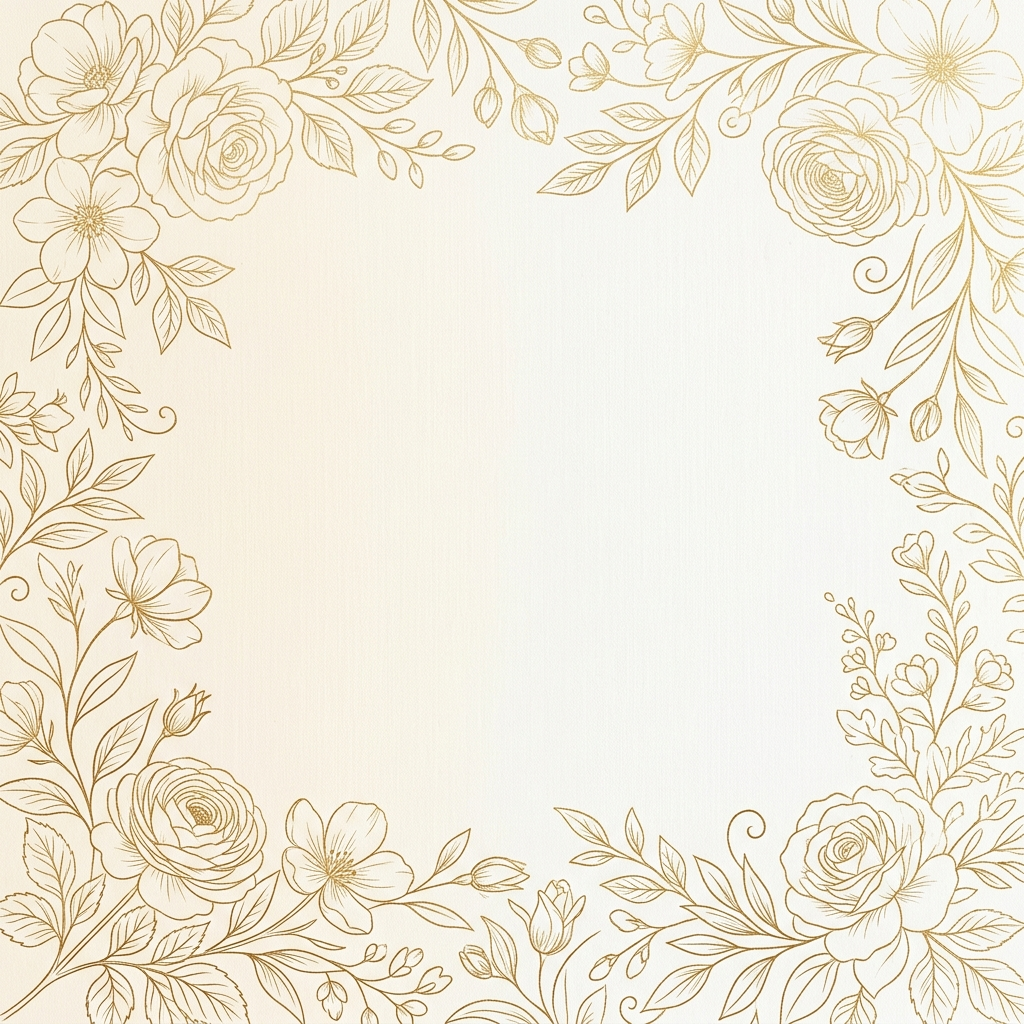
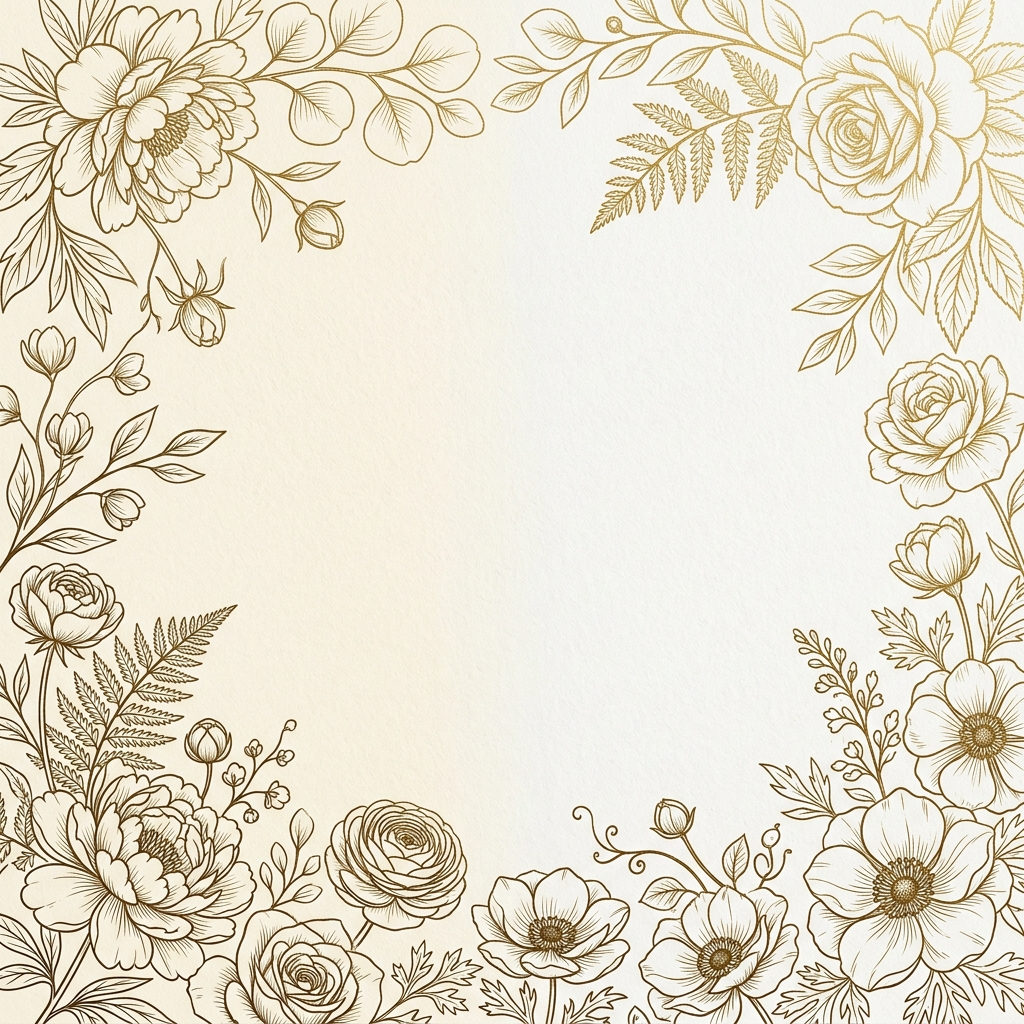
ඔයා කරපු වෙනස ගැන පොඩි විස්තරයක්

Changed region(s): [[0.0, 0.0, 1.0, 1.0]]

diff --git a/src/components/sections/Couple.tsx b/src/components/sections/Couple.tsx
@@ -8,7 +8,7 @@ import { engagementData } from "@/data/engagement";
 
 export const Couple = () => {
   return (
-    <Container id="couple" className="bg-soft-cream/60 backdrop-blur-sm">
+    <Container id="couple" className="bg-transparent">
       <SectionTitle title="The Couple" subtitle="Meet" />
 
       <div className="flex flex-col md:flex-row items-center justify-center gap-16 md:gap-24 mt-16">
@@ -20,19 +20,15 @@ export const Couple = () => {
           transition={{ duration: 0.8 }}
           className="flex flex-col items-center text-center"
         >
-          <div className="w-64 h-64 md:w-80 md:h-80 rounded-full overflow-hidden border-4 border-white shadow-xl mb-8 relative bg-secondary/60 backdrop-blur-sm flex items-center justify-center">
-            <span className="font-script text-4xl text-gold/30 z-10">S.V.</span>
-            {/* 
-              When adding actual images, use the Next.js Image component like this:
-              <Image 
-                src="/bride-portrait.webp" // Use modern formats like WebP or AVIF
-                alt={engagementData.couple.bride}
-                fill
-                sizes="(max-width: 768px) 256px, 320px" // Responsive sizes
-                loading="lazy" // Lazy loading below the fold
-                className="object-cover"
-              />
-            */}
+          <div className="w-64 h-64 md:w-80 md:h-80 rounded-full overflow-hidden border-4 border-white shadow-xl mb-8 relative bg-transparent flex items-center justify-center">
+            <Image 
+              src="/bride.jpg" 
+              alt={engagementData.couple.bride}
+              fill
+              sizes="(max-width: 768px) 256px, 320px"
+              loading="lazy"
+              className="object-cover"
+            />
           </div>
           <h3 className="font-serif text-3xl mb-2">{engagementData.couple.bride}</h3>
           <p className="text-text-light text-sm uppercase tracking-widest">The Bride-to-be</p>
@@ -50,19 +46,15 @@ export const Couple = () => {
           transition={{ duration: 0.8, delay: 0.2 }}
           className="flex flex-col items-center text-center"
         >
-          <div className="w-64 h-64 md:w-80 md:h-80 rounded-full overflow-hidden border-4 border-white shadow-xl mb-8 relative bg-secondary/60 backdrop-blur-sm flex items-center justify-center">
-            <span className="font-script text-4xl text-gold/30 z-10">T.S.</span>
-             {/* 
-              When adding actual images, use the Next.js Image component like this:
-              <Image 
-                src="/groom-portrait.webp" // Use modern formats like WebP or AVIF
-                alt={engagementData.couple.groom}
-                fill
-                sizes="(max-width: 768px) 256px, 320px" // Responsive sizes
-                loading="lazy" // Lazy loading below the fold
-                className="object-cover"
-              />
-            */}
+          <div className="w-64 h-64 md:w-80 md:h-80 rounded-full overflow-hidden border-4 border-white shadow-xl mb-8 relative bg-transparent flex items-center justify-center">
+            <Image 
+              src="/groom.jpg" 
+              alt={engagementData.couple.groom}
+              fill
+              sizes="(max-width: 768px) 256px, 320px"
+              loading="lazy"
+              className="object-cover"
+            />
           </div>
           <h3 className="font-serif text-3xl mb-2">{engagementData.couple.groom}</h3>
           <p className="text-text-light text-sm uppercase tracking-widest">The Groom-to-be</p>

diff --git a/src/app/page.tsx b/src/app/page.tsx
@@ -1,9 +1,11 @@
 "use client";
 
 import { useState, useEffect, useRef } from "react";
-import { motion, useScroll, useTransform } from "framer-motion";
+import { motion } from "framer-motion";
 import { OpeningScreen } from "@/components/sections/OpeningScreen";
 import { Hero } from "@/components/sections/Hero";
+import { FloatingNav } from "@/components/sections/FloatingNav";
+import { PetalParticles } from "@/components/ui/PetalParticles";
 import dynamic from "next/dynamic";
 
 // Dynamically import below-the-fold components to defer JS loading and reduce initial bundle size
@@ -14,17 +16,11 @@ const EventSchedule = dynamic(() => import("@/components/sections/EventSchedule"
 const RSVP = dynamic(() => import("@/components/sections/RSVP").then((mod) => mod.RSVP));
 const VenueMap = dynamic(() => import("@/components/sections/VenueMap").then((mod) => mod.VenueMap), { ssr: false });
 const ThankYou = dynamic(() => import("@/components/sections/ThankYou").then((mod) => mod.ThankYou));
-import { FloatingNav } from "@/components/sections/FloatingNav";
-import { PetalParticles } from "@/components/ui/PetalParticles";
 
 export default function Home() {
   const [isInvitationOpen, setIsInvitationOpen] = useState(false);
   const [isPlaying, setIsPlaying] = useState(false);
   const audioRef = useRef<HTMLAudioElement | null>(null);
-
-  // Parallax background logic
-  const { scrollY } = useScroll();
-  const backgroundY = useTransform(scrollY, [0, 4000], ["0%", "20%"]);
 
   const handleOpenInvitation = () => {
     setIsInvitationOpen(true);
@@ -65,18 +61,7 @@ export default function Home() {
       {/* Background Music - Update the src to your actual audio file path */}
       <audio ref={audioRef} src="/audio/background-music.mp3" loop />
 
-      {/* Botanical Parallax Background */}
-      <motion.div 
-        className="fixed -left-[10vw] -right-[10vw] -top-[15vh] h-[130vh] -z-10 pointer-events-none opacity-80"
-        style={{ 
-          backgroundImage: "url('/botanical-bg.png')", 
-          backgroundSize: "cover", 
-          backgroundPosition: "center",
-          backgroundRepeat: "no-repeat",
-          mixBlendMode: "multiply",
-          y: backgroundY
-        }} 
-      />
+
 
       {/* Animated Petals globally across the site */}
       <PetalParticles />

diff --git a/src/app/globals.css b/src/app/globals.css
@@ -20,8 +20,23 @@
   --foreground: #2D2D2D;
 }
 
+@keyframes mesh-gradient {
+  0% {
+    background-position: 0% 50%;
+  }
+  50% {
+    background-position: 100% 50%;
+  }
+  100% {
+    background-position: 0% 50%;
+  }
+}
+
 body {
-  background-color: var(--background);
+  background: linear-gradient(-45deg, #FAF8F5, #FFFFFF, #E6D4B5, #FAF8F5);
+  background-size: 400% 400%;
+  animation: mesh-gradient 15s ease infinite;
+  background-attachment: fixed;
   color: var(--foreground);
 }
 

diff --git a/src/components/sections/RSVP.tsx b/src/components/sections/RSVP.tsx
@@ -59,7 +59,7 @@ export const RSVP = () => {
                   </label>
                   <input
                     {...register("name", { required: "Name is required" })}
-                    className="w-full bg-secondary/60 backdrop-blur-sm border border-divider rounded-lg px-4 py-3 focus:outline-none focus:border-gold transition-colors"
+                    className="w-full bg-transparent border border-divider rounded-lg px-4 py-3 focus:outline-none focus:border-gold transition-colors"
                     placeholder="John Doe"
                   />
                   {errors.name && (
@@ -73,7 +73,7 @@ export const RSVP = () => {
                   </label>
                   <input
                     {...register("phone", { required: "Phone number is required" })}
-                    className="w-full bg-secondary/60 backdrop-blur-sm border border-divider rounded-lg px-4 py-3 focus:outline-none focus:border-gold transition-colors"
+                    className="w-full bg-transparent border border-divider rounded-lg px-4 py-3 focus:outline-none focus:border-gold transition-colors"
                     placeholder="[phone redacted]"
                   />
                   {errors.phone && (
@@ -88,7 +88,7 @@ export const RSVP = () => {
                     </label>
                     <select
                       {...register("guests", { required: "Please select number of guests" })}
-                      className="w-full bg-secondary/60 backdrop-blur-sm border border-divider rounded-lg px-4 py-3 focus:outline-none focus:border-gold transition-colors appearance-none"
+                      className="w-full bg-transparent border border-divider rounded-lg px-4 py-3 focus:outline-none focus:border-gold transition-colors appearance-none"
                     >
                       <option value="">Select...</option>
                       <option value="1">1 Person</option>
@@ -107,7 +107,7 @@ export const RSVP = () => {
                     </label>
                     <select
                       {...register("attending", { required: "Please confirm attendance" })}
-                      className="w-full bg-secondary/60 backdrop-blur-sm border border-divider rounded-lg px-4 py-3 focus:outline-none focus:border-gold transition-colors appearance-none"
+                      className="w-full bg-transparent border border-divider rounded-lg px-4 py-3 focus:outline-none focus:border-gold transition-colors appearance-none"
                     >
                       <option value="">Select...</option>
                       <option value="yes">Joyfully Accept</option>
@@ -126,7 +126,7 @@ export const RSVP = () => {
                   <textarea
                     {...register("message")}
                     rows={4}
-                    className="w-full bg-secondary/60 backdrop-blur-sm border border-divider rounded-lg px-4 py-3 focus:outline-none focus:border-gold transition-colors resize-none"
+                    className="w-full bg-transparent border border-divider rounded-lg px-4 py-3 focus:outline-none focus:border-gold transition-colors resize-none"
                     placeholder="Leave a message for the couple..."
                   />
                 </div>

diff --git a/src/app/layout.tsx b/src/app/layout.tsx
@@ -56,10 +56,10 @@ export default function RootLayout({
       lang="en"
       className={`${inter.variable} ${cormorantGaramond.variable} ${greatVibes.variable} h-full antialiased`}
     >
-      <body className="min-h-full flex flex-col font-sans text-text relative bg-transparent">
-        {/* Base Background Color */}
-        <div className="fixed inset-0 -z-20 bg-background pointer-events-none" />
-        
+      <body 
+        className="min-h-full flex flex-col font-sans text-text relative bg-transparent"
+        suppressHydrationWarning
+      >
         {children}
       </body>
     </html>

diff --git a/src/components/sections/Countdown.tsx b/src/components/sections/Countdown.tsx
@@ -50,7 +50,7 @@ export const Countdown = () => {
   ];
 
   return (
-    <Container className="bg-secondary/60 backdrop-blur-sm py-20">
+    <Container className="bg-transparent py-20">
       <div className="flex flex-wrap justify-center gap-8 md:gap-16">
         {timeBlocks.map((block, index) => (
           <motion.div

diff --git a/src/components/sections/EventSchedule.tsx b/src/components/sections/EventSchedule.tsx
@@ -8,7 +8,7 @@ import { cn } from "@/lib/utils";
 
 export const EventSchedule = () => {
   return (
-    <Container id="schedule" className="bg-secondary/60 backdrop-blur-sm">
+    <Container id="schedule" className="bg-transparent">
       <SectionTitle title="Event Schedule" subtitle="Timeline" />
 
       <div className="max-w-xl mx-auto relative mt-16">

diff --git a/src/components/sections/VenueMap.tsx b/src/components/sections/VenueMap.tsx
@@ -7,7 +7,7 @@ import { Button } from "../ui/Button";
 
 export const VenueMap = () => {
   return (
-    <Container id="venue" className="bg-soft-cream/60 backdrop-blur-sm !py-0 !px-0 max-w-none relative h-[600px] md:h-[800px]">
+    <Container id="venue" className="bg-transparent !py-0 !px-0 max-w-none relative h-[600px] md:h-[800px]">
       <iframe
         src="https://maps.google.com/maps?q=Hotel%20Senuri%20Grand%20Castello,%20Diulapitiya,%20Sri%20Lanka&t=&z=15&ie=UTF8&iwloc=&output=embed"
         width="100%"